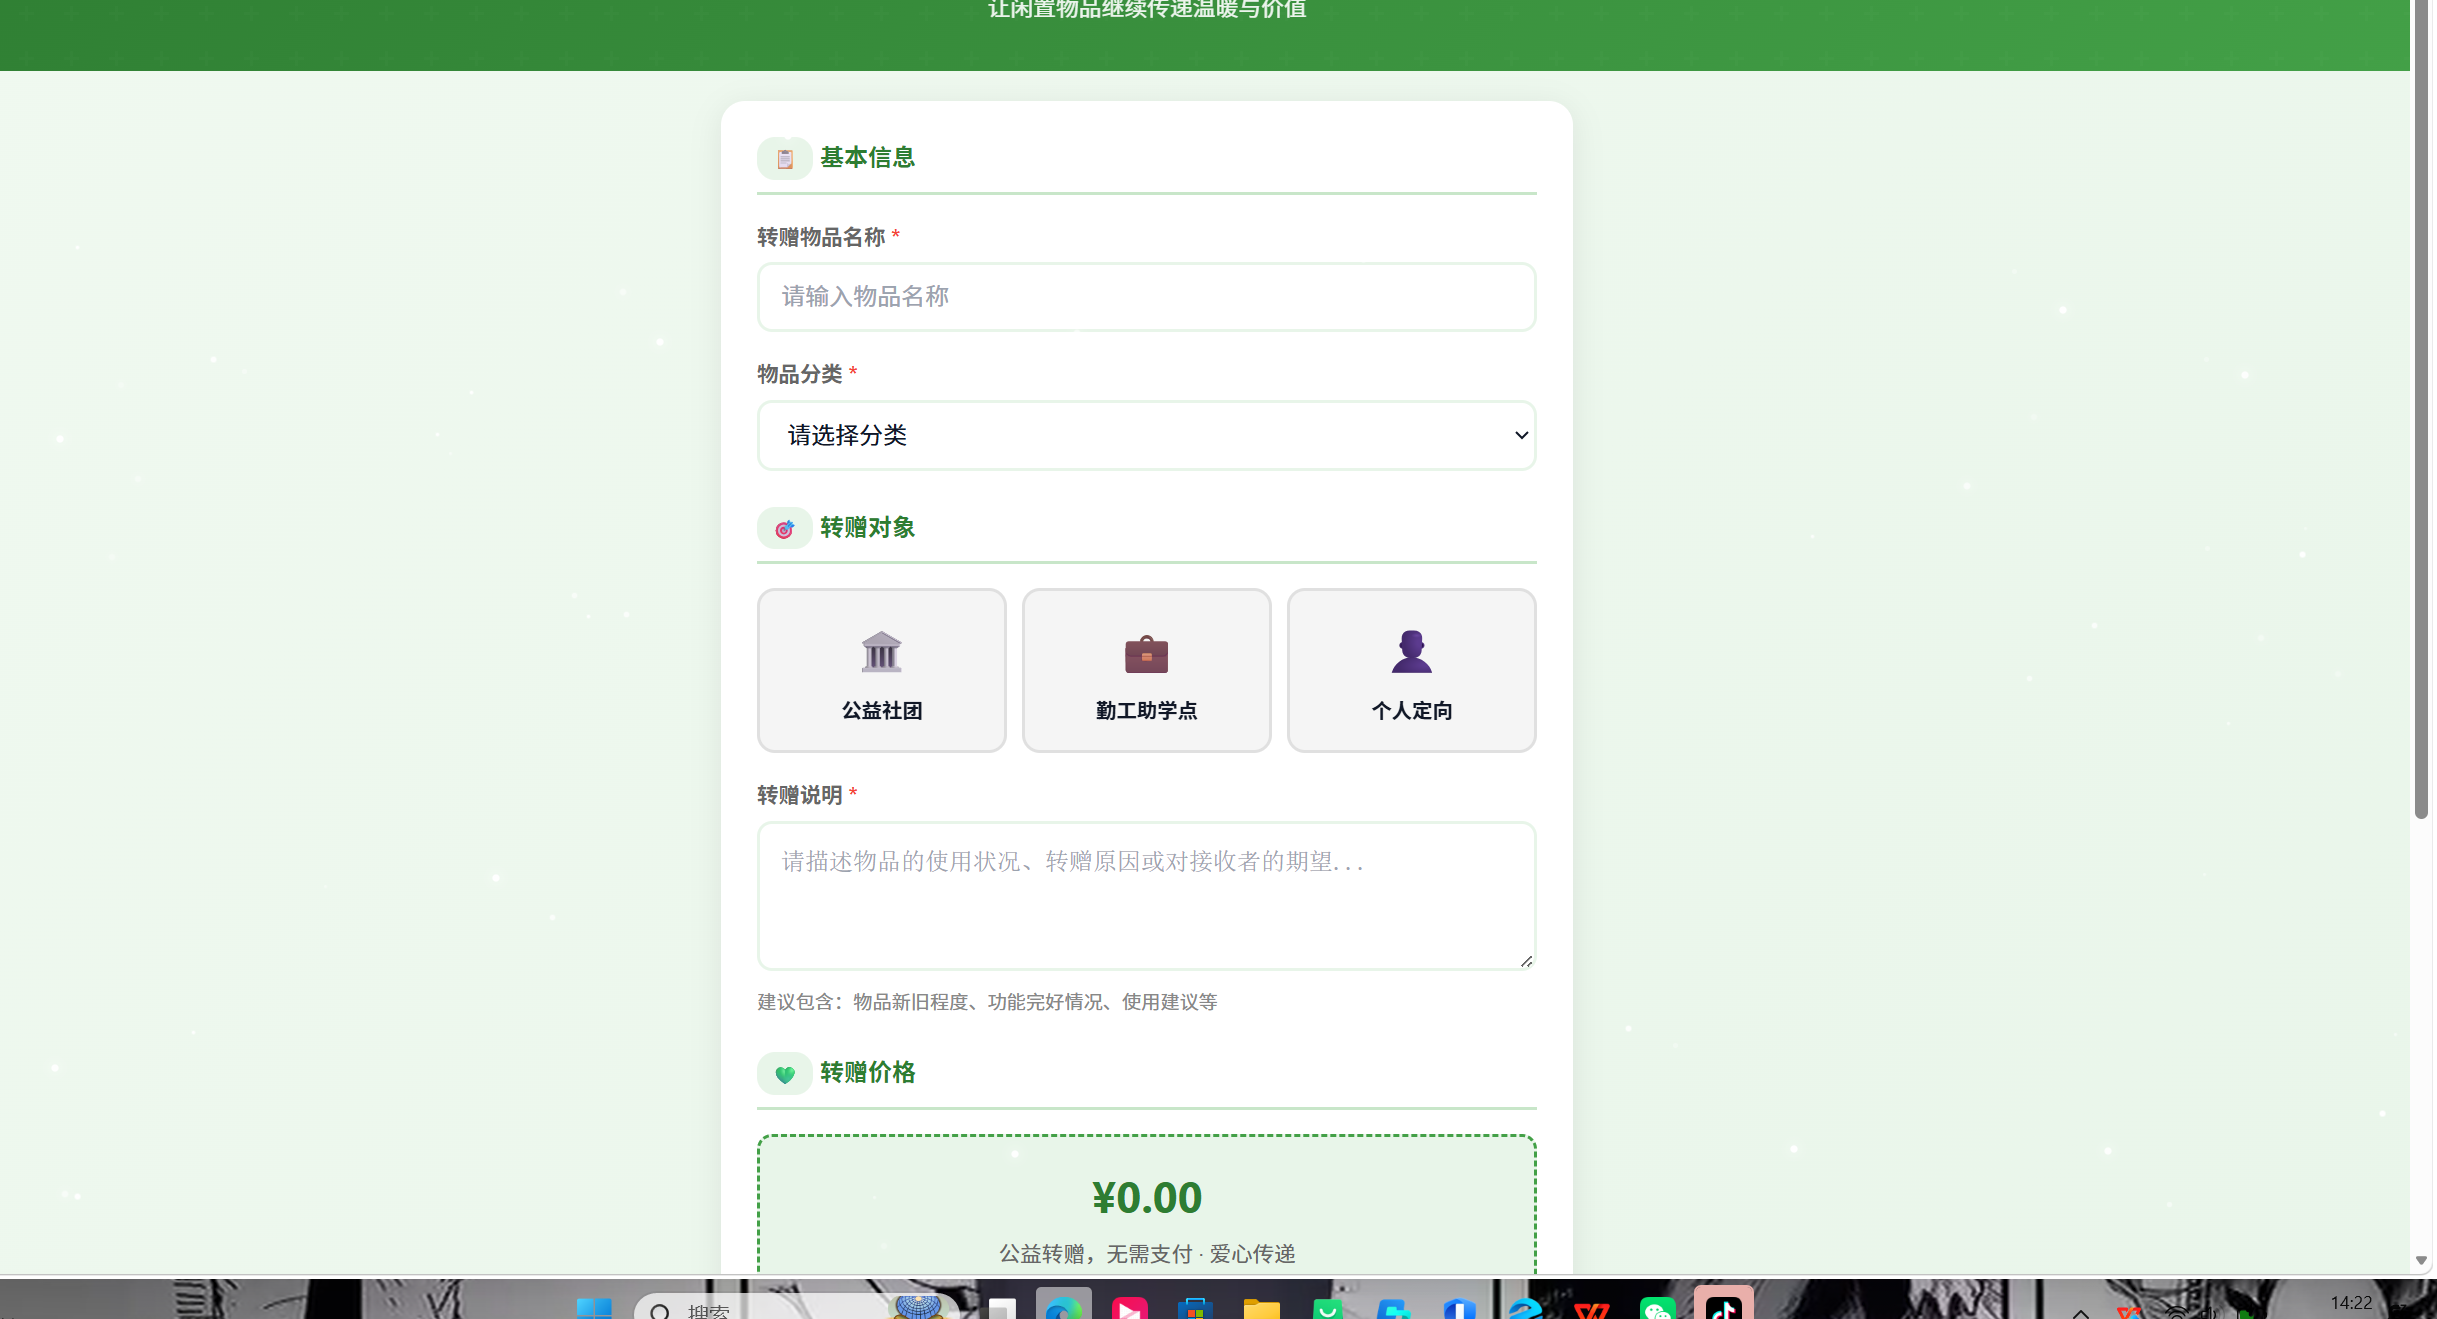
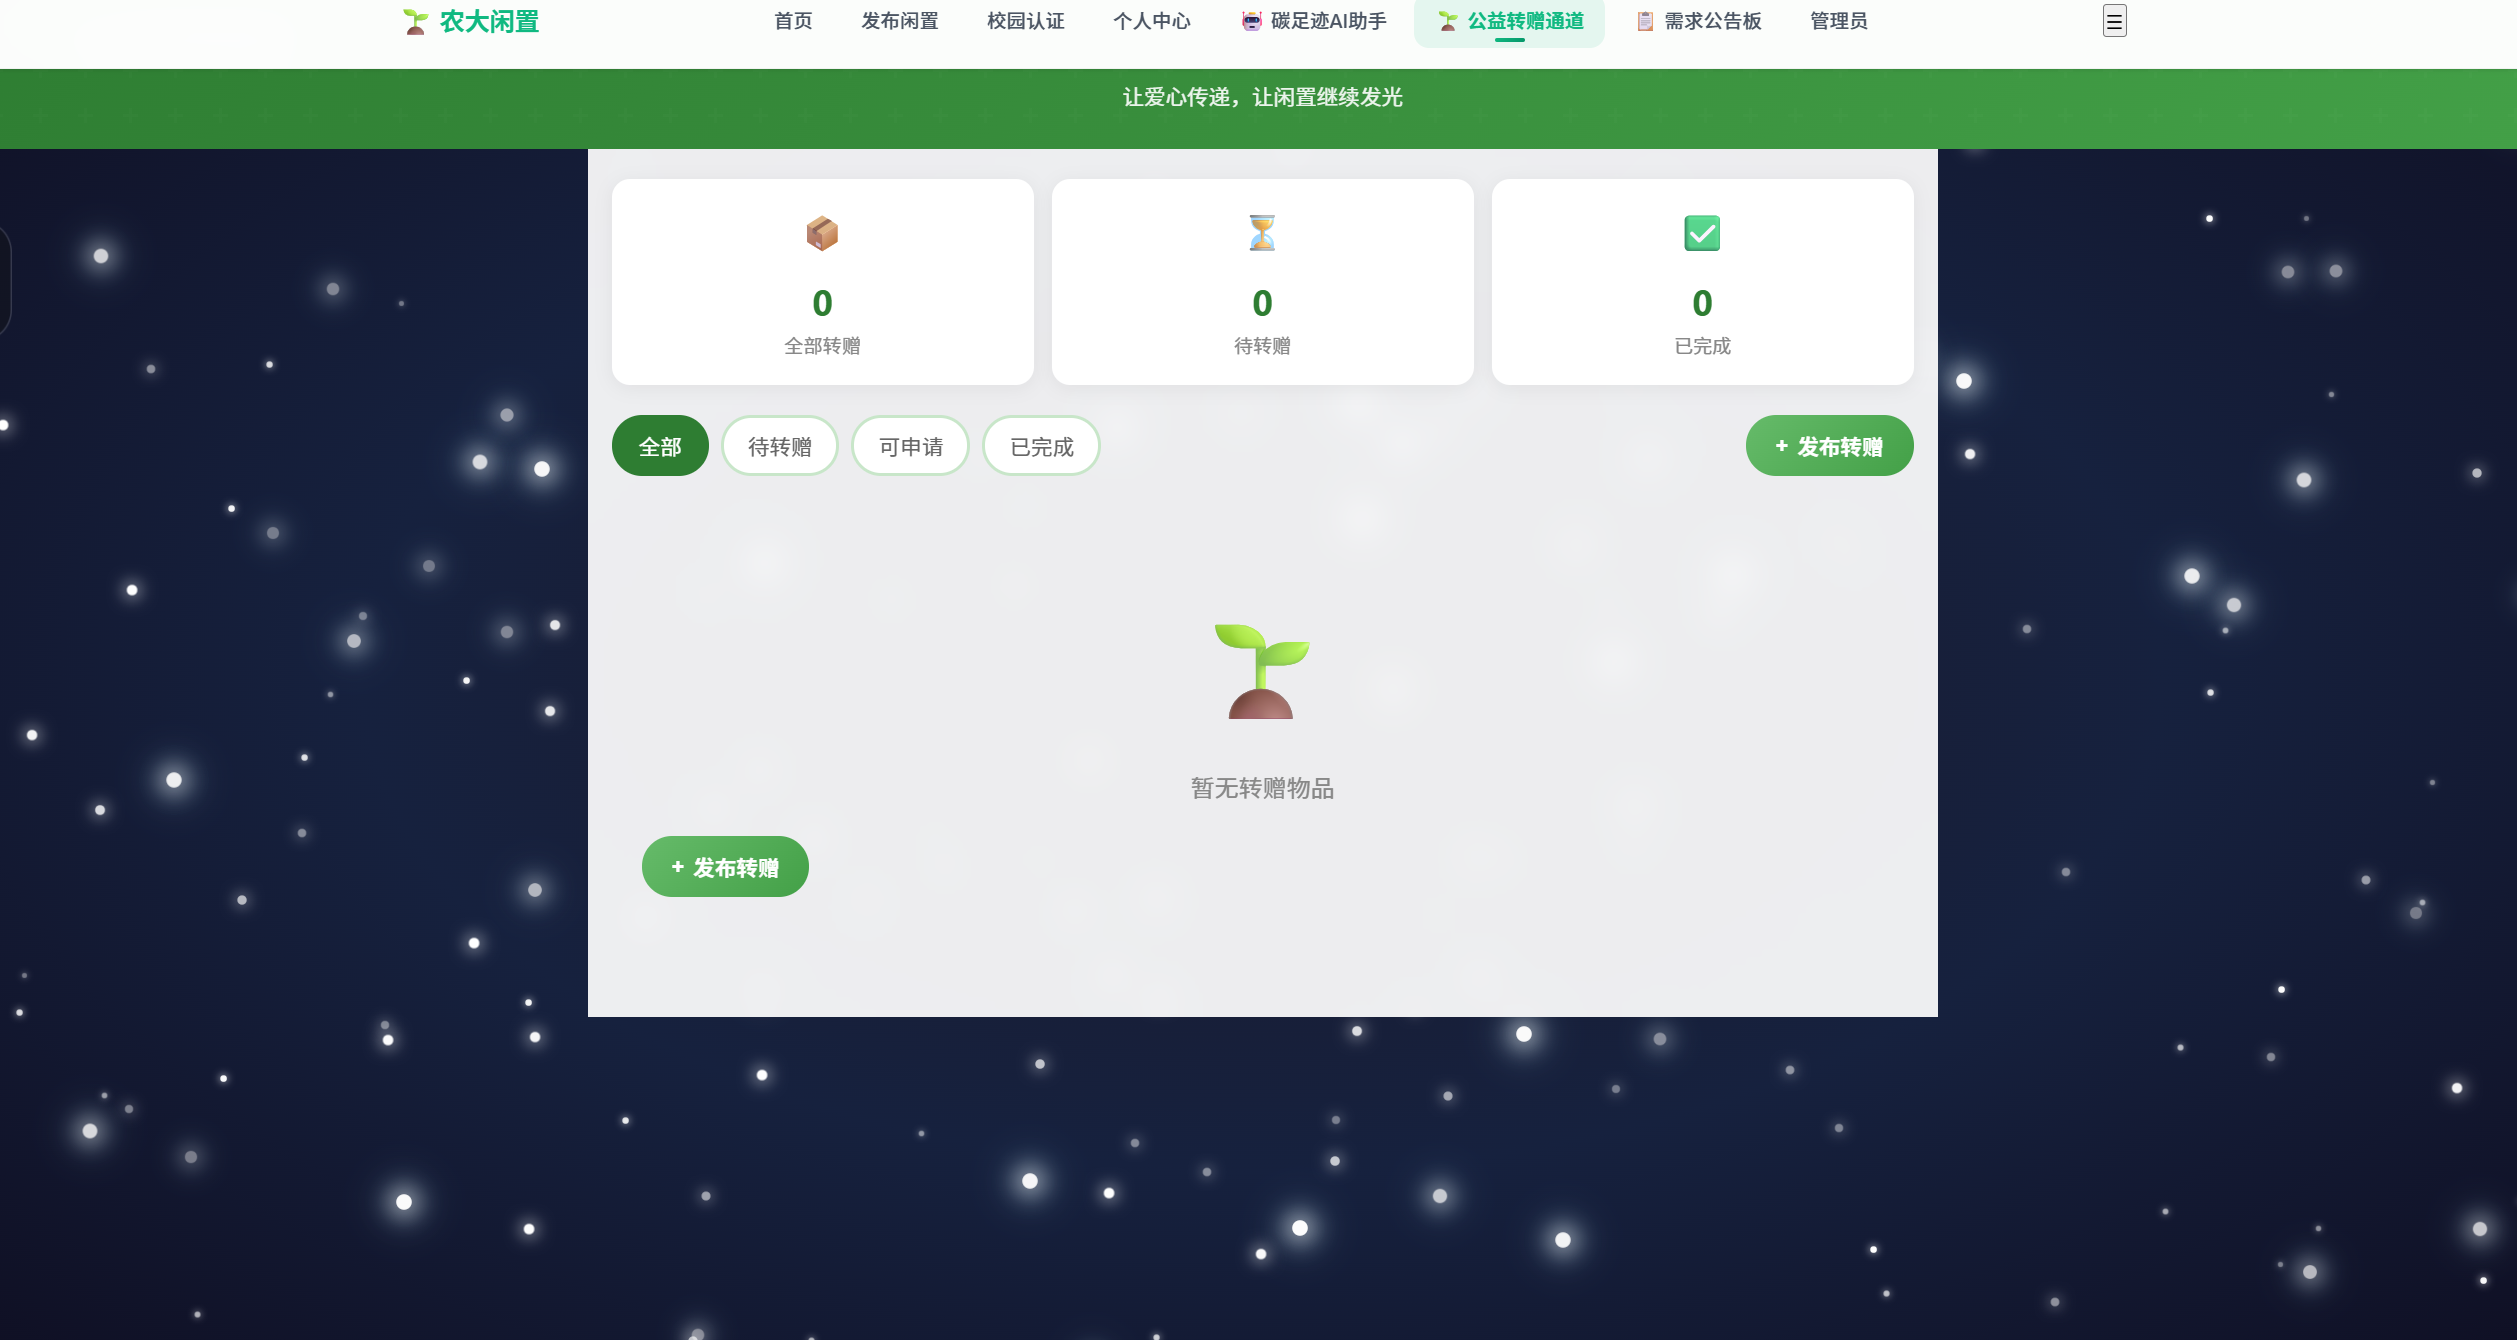
feat: 功能页面背景完全替换为深色星空

diff --git a/HNAU_SecondHand/demand_board.html b/HNAU_SecondHand/demand_board.html
@@ -11,7 +11,7 @@
         
         body {
             font-family: -apple-system, BlinkMacSystemFont, 'Segoe UI', Roboto, 'Helvetica Neue', Arial, sans-serif;
-            background: linear-gradient(135deg, #f0f9f0 0%, #e8f5e9 100%);
+            background: linear-gradient(135deg, #0a0a1a 0%, #1a1a3e 100%);
             min-height: 100vh;
             color: #333;
             position: relative;

diff --git a/HNAU_SecondHand/user_center.html b/HNAU_SecondHand/user_center.html
@@ -8,7 +8,10 @@
     <link rel="stylesheet" href="./style/main.css">
     <style>
         /* 星空背景层 */
-        body { position: relative; }
+        body { 
+            position: relative; 
+            background: linear-gradient(135deg, #0a0a1a, #1a1a3e, #0f0f2e) !important;
+        }
         .star-layer {
             position: fixed;
             top: 0;

diff --git a/HNAU_SecondHand/donation_list.html b/HNAU_SecondHand/donation_list.html
@@ -8,7 +8,7 @@
     <style>
         /* ========== 公益转赠列表页样式 ========== */
         body {
-            background: linear-gradient(135deg, #f0f9f0, #e8f5e9);
+            background: linear-gradient(135deg, #0a0a1a, #1a1a3e, #0f0f2e);
             min-height: 100vh;
             position: relative;
         }

diff --git a/HNAU_SecondHand/donation_my.html b/HNAU_SecondHand/donation_my.html
@@ -8,7 +8,7 @@
     <style>
         /* ========== 我的公益转赠页样式 ========== */
         body {
-            background: linear-gradient(135deg, #f0f9f0, #e8f5e9);
+            background: linear-gradient(135deg, #0a0a1a, #1a1a3e, #0f0f2e);
             min-height: 100vh;
             position: relative;
         }

diff --git a/HNAU_SecondHand/donation_publish.html b/HNAU_SecondHand/donation_publish.html
@@ -8,7 +8,7 @@
     <style>
         /* ========== 公益转赠发布页样式 ========== */
         body {
-            background: linear-gradient(135deg, #f0f9f0, #e8f5e9);
+            background: linear-gradient(135deg, #0a0a1a, #1a1a3e, #0f0f2e);
             min-height: 100vh;
             position: relative;
         }

diff --git a/HNAU_SecondHand/carbon_ai.html b/HNAU_SecondHand/carbon_ai.html
@@ -7,7 +7,7 @@
     <link rel="stylesheet" href="./style/main.css">
     <style>
         body { 
-            background: linear-gradient(135deg, #f0f9f0, #e8f5e9); 
+            background: linear-gradient(135deg, #0a0a1a, #1a1a3e, #0f0f2e); 
             min-height: 100vh;
             position: relative;
         }
